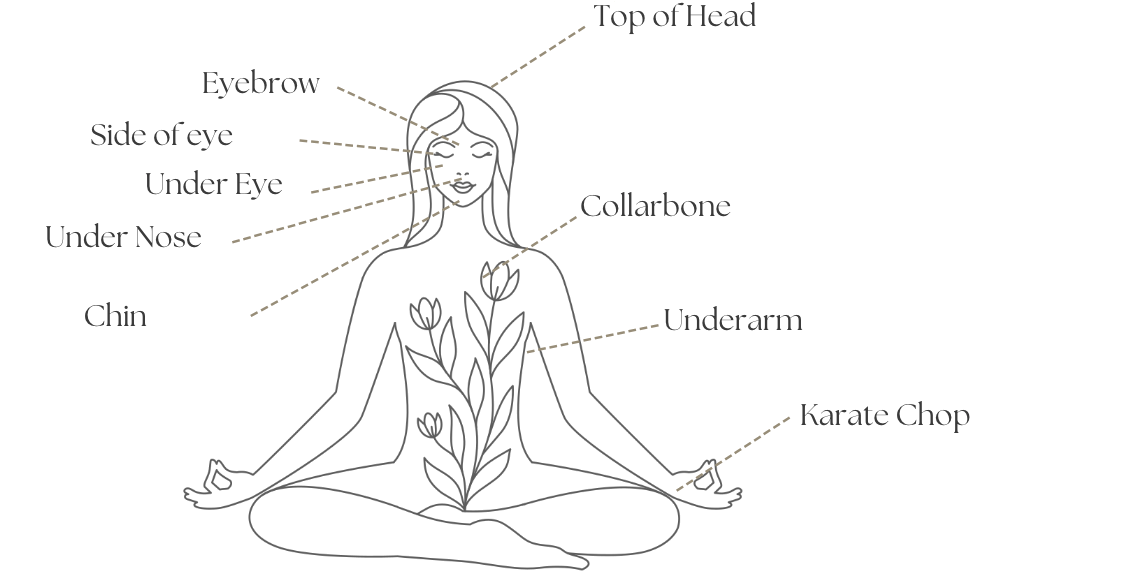
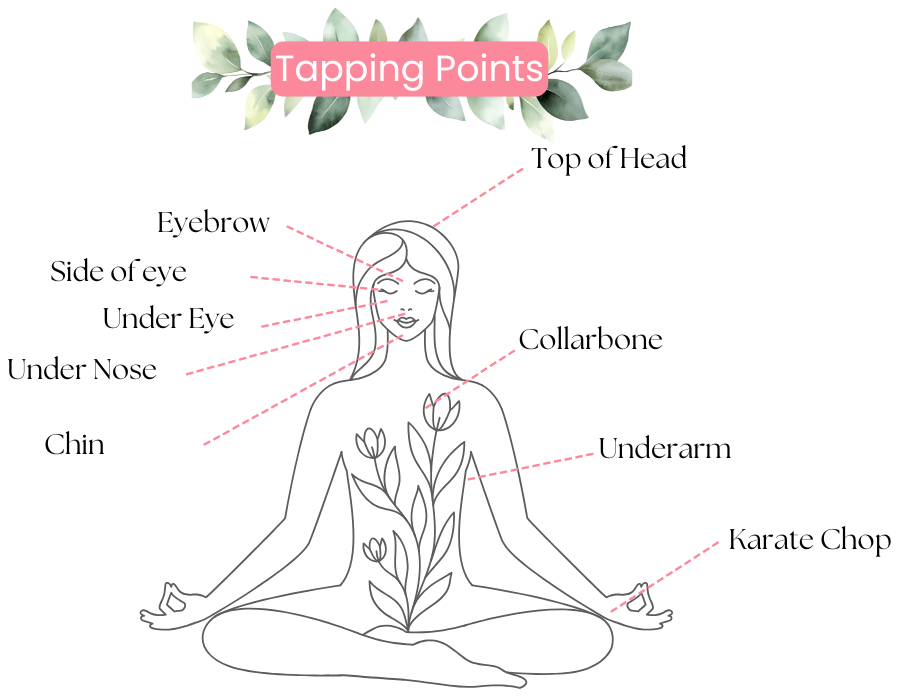
Love SOS sales page: use Nicky's new tapping points chart
White background removed so the blush panel shows through.

Claude-Session: https://claude.ai/code/session_016QcYpYHw4waFwPtGTXWSez

diff --git a/lovesos.html b/lovesos.html
@@ -125,7 +125,7 @@
   .after-shot { margin-top: 28px; font-weight: 500; }
 
   .chart-panel { margin: 24px 0 0; background: var(--blush); border-radius: var(--radius); padding: 16px; }
-  .chart-panel img { width: 100%; max-width: 560px; margin: 0 auto; }
+  .chart-panel img { width: 100%; max-width: 480px; margin: 0 auto; }
 
   /* Created by */
   .about-photo { width: 200px; max-width: 60%; margin: 0 0 22px; border-radius: var(--radius); overflow: hidden; background: var(--white); }
@@ -309,7 +309,7 @@
       <figure class="chart-panel">
         <picture>
           <source srcset="assets/lovesos/lovesos-chart.webp" type="image/webp">
-          <img src="assets/lovesos/lovesos-chart.png" width="1134" height="584" loading="lazy" decoding="async" alt="Tapping points chart: Top of Head, Eyebrow, Side of eye, Under Eye, Under Nose, Chin, Collarbone, Underarm and Karate Chop">
+          <img src="assets/lovesos/lovesos-chart.png" width="899" height="697" loading="lazy" decoding="async" alt="Tapping points chart: Top of Head, Eyebrow, Side of eye, Under Eye, Under Nose, Chin, Collarbone, Underarm and Karate Chop">
         </picture>
       </figure>
 
